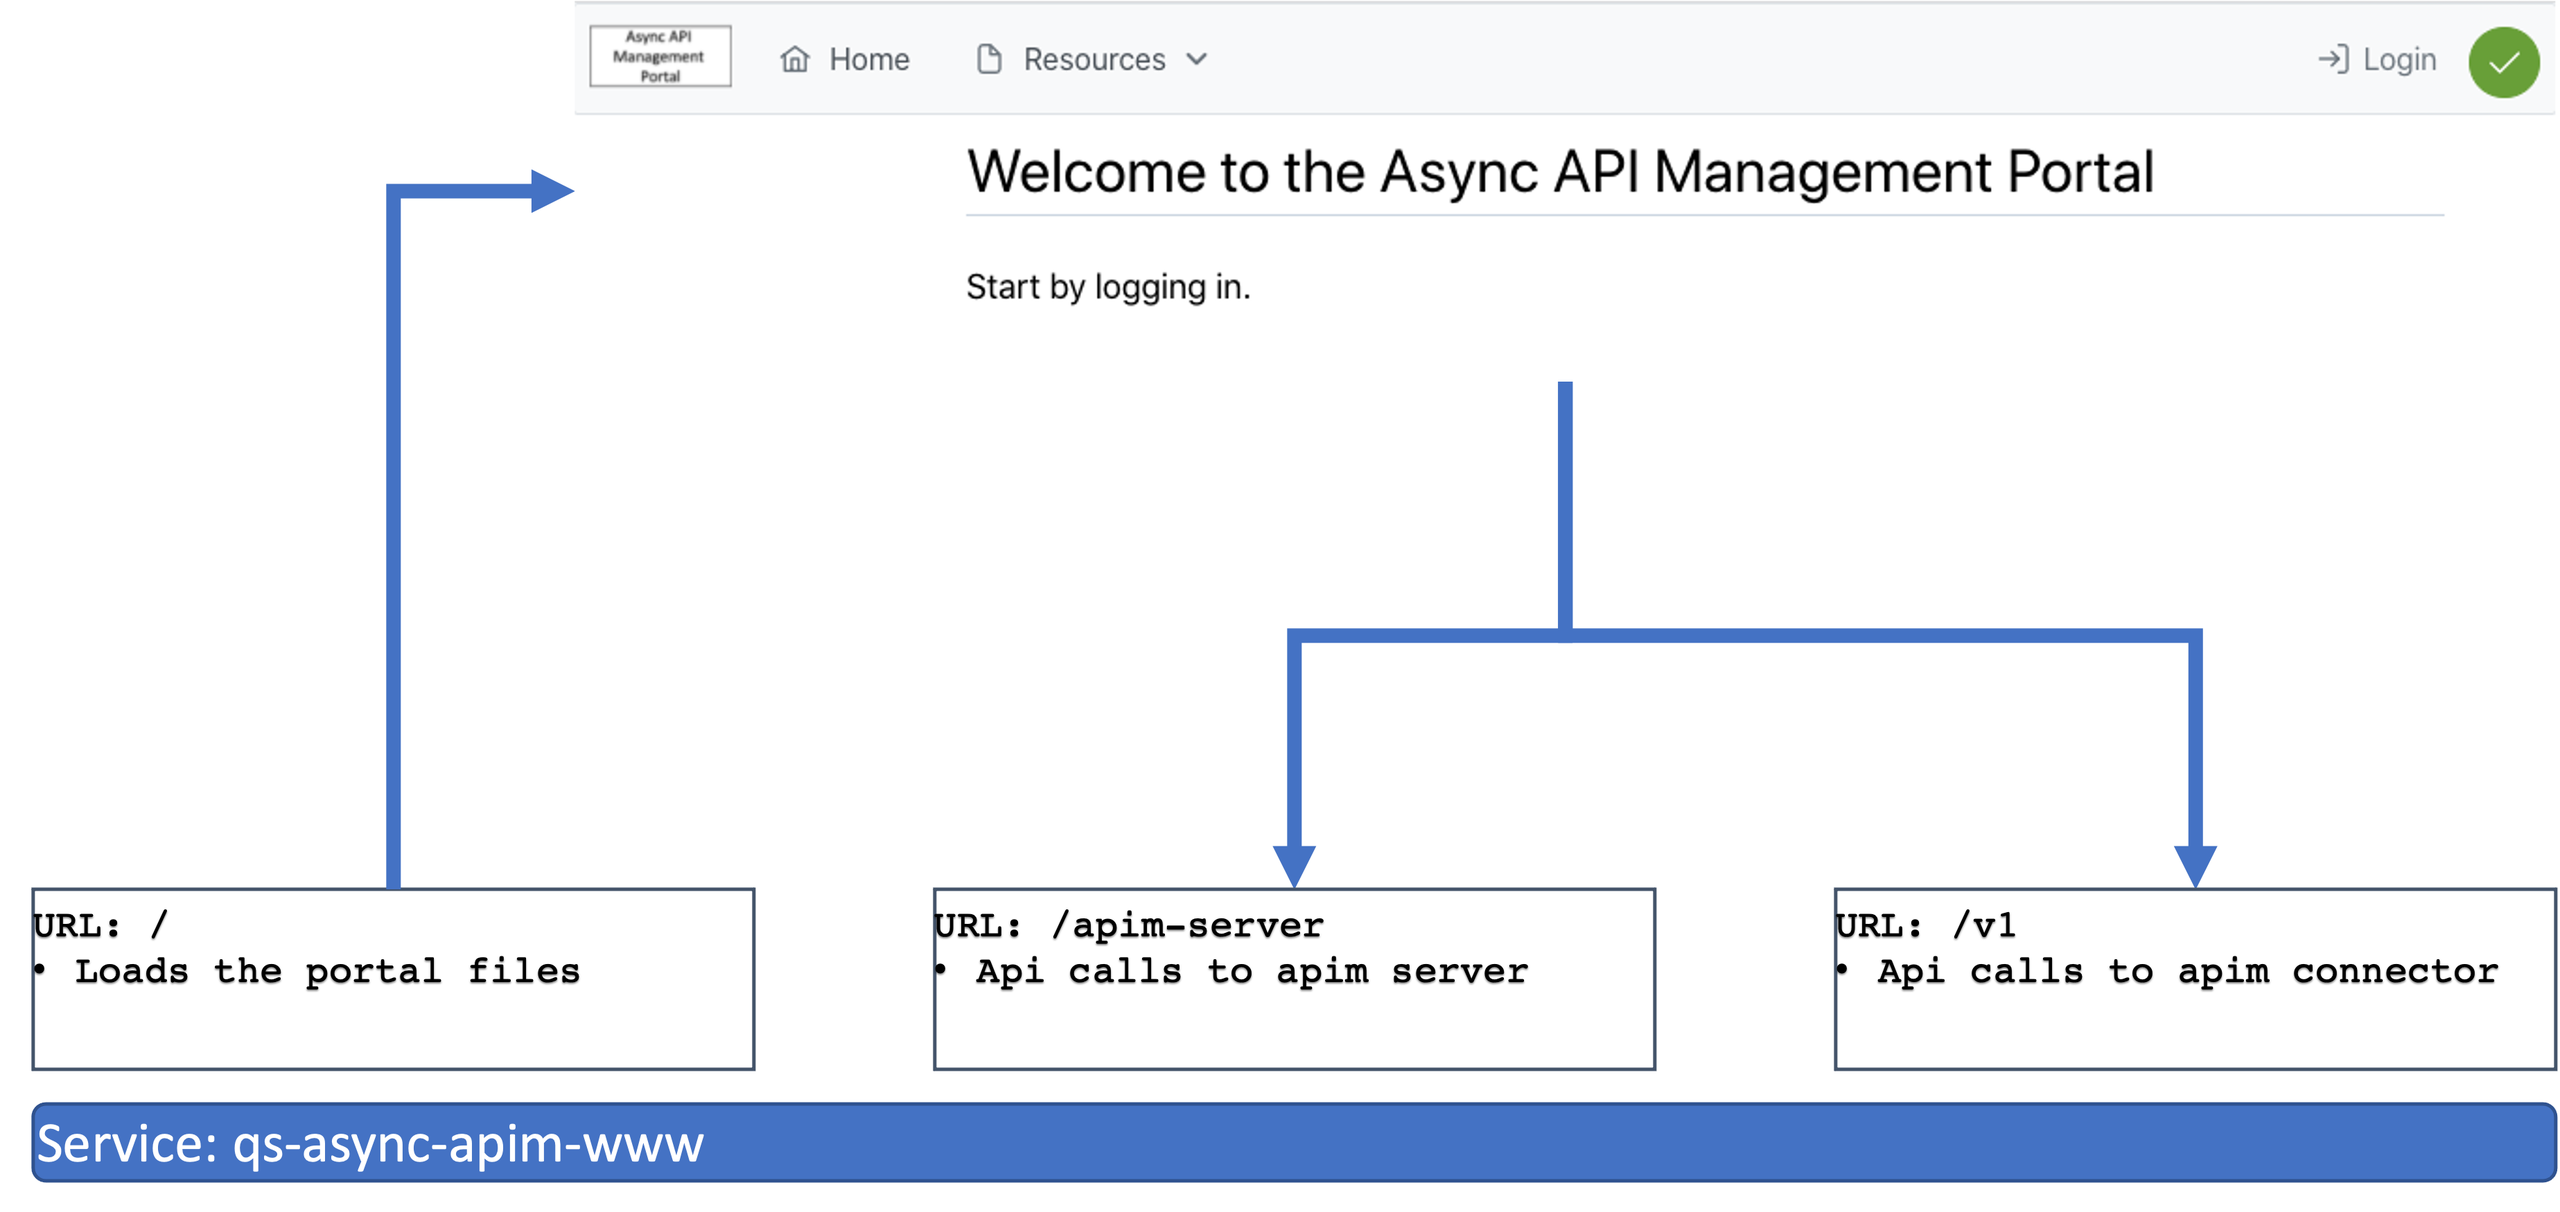
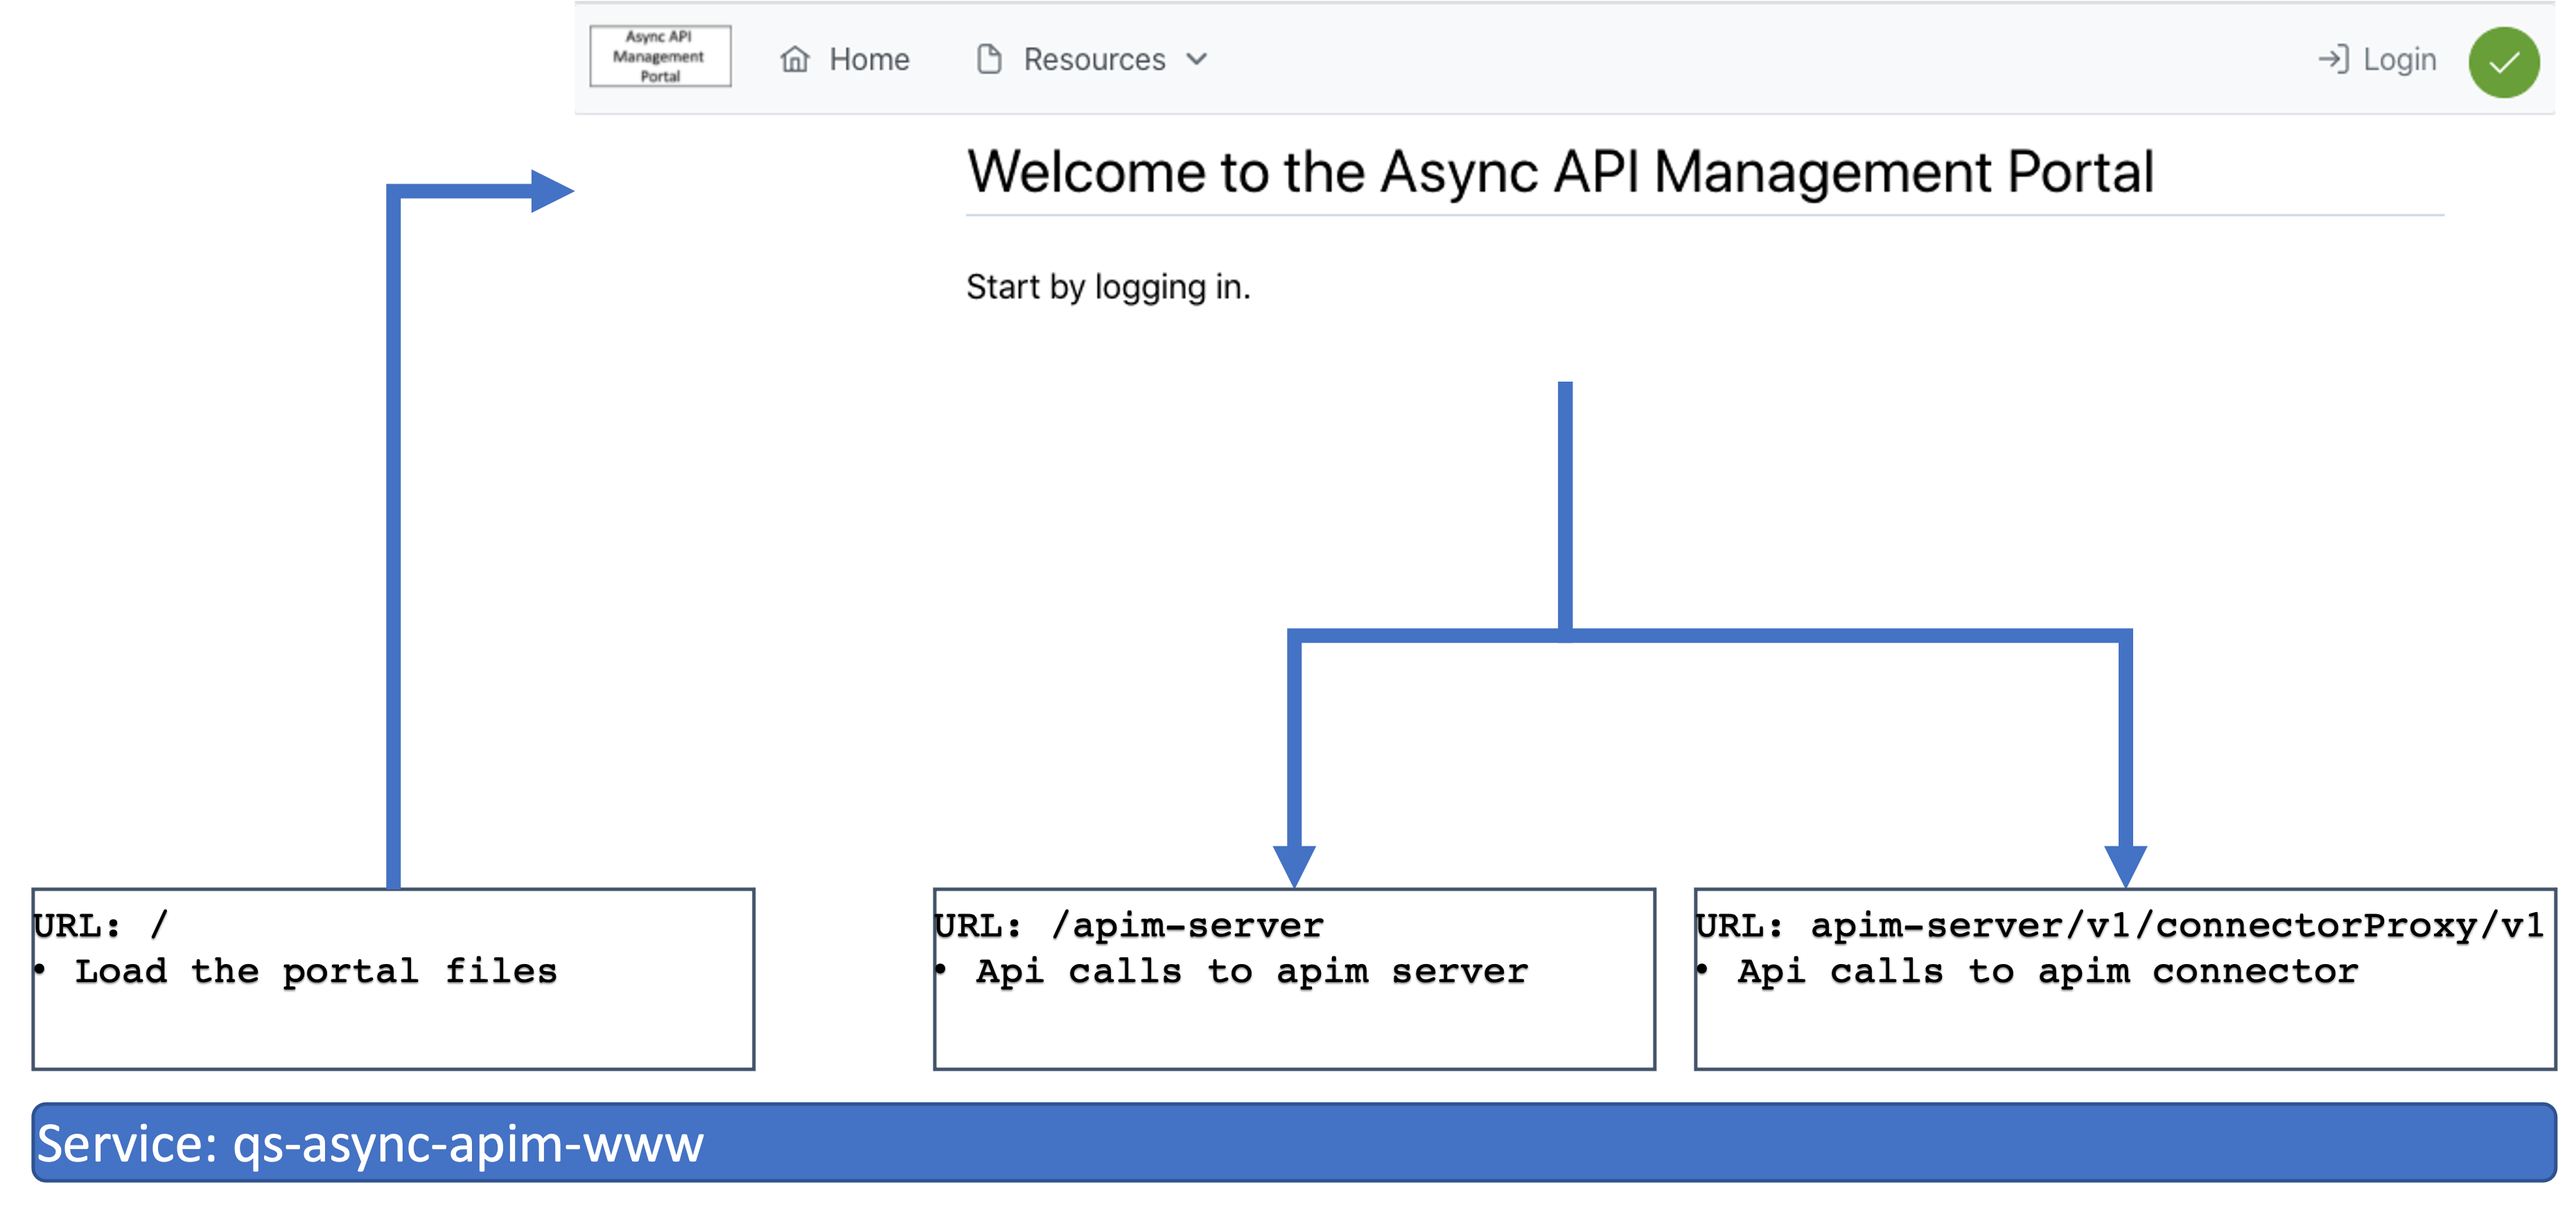
fixed docs

diff --git a/docs/source/quickstart-content/installation.rst b/docs/source/quickstart-content/installation.rst
@@ -103,7 +103,9 @@ The following figure shows the set-up of the containers:
    Figure 1: Quickstart Docker Compose Container Setup
 
 
-Browser connections:
+**Browser connections:**
+
+Note that the portal app uses the APIM Server as a proxy for the APIM Connector with the following URL: `/apim-server/v1/connectorProxy/v1`.
 
 .. figure:: ../images/async-apim.quickstart.connect.png
    :width: 800
